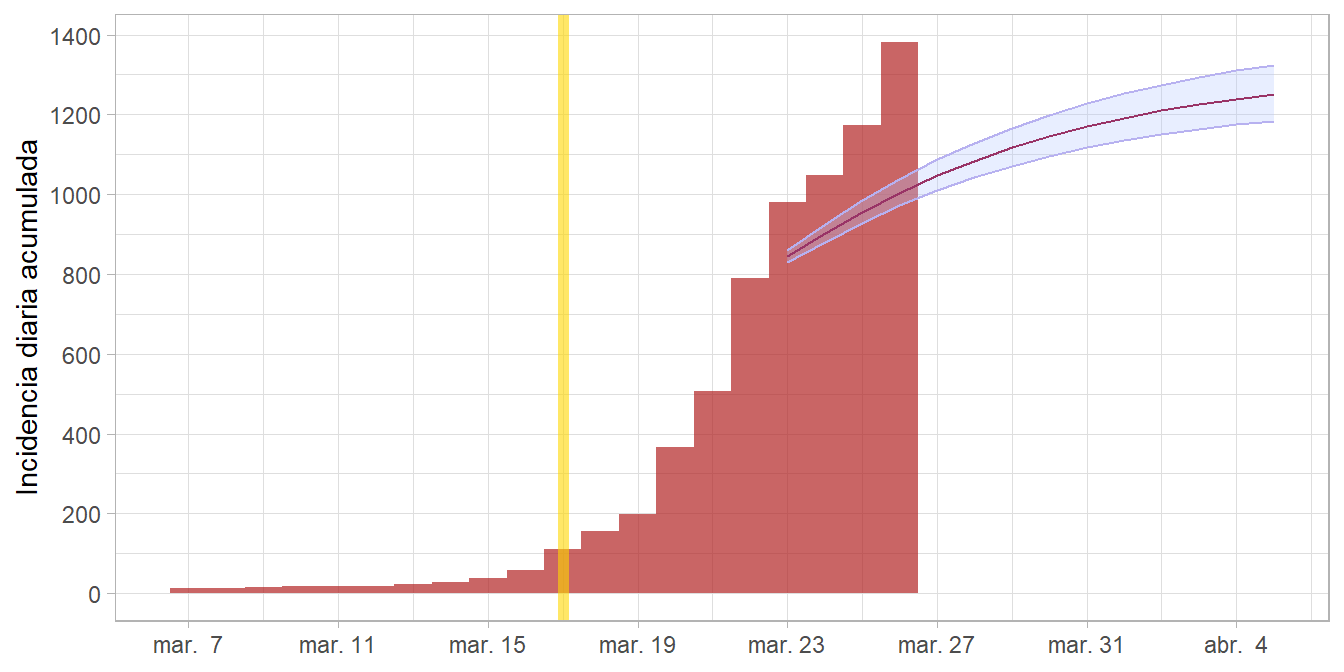
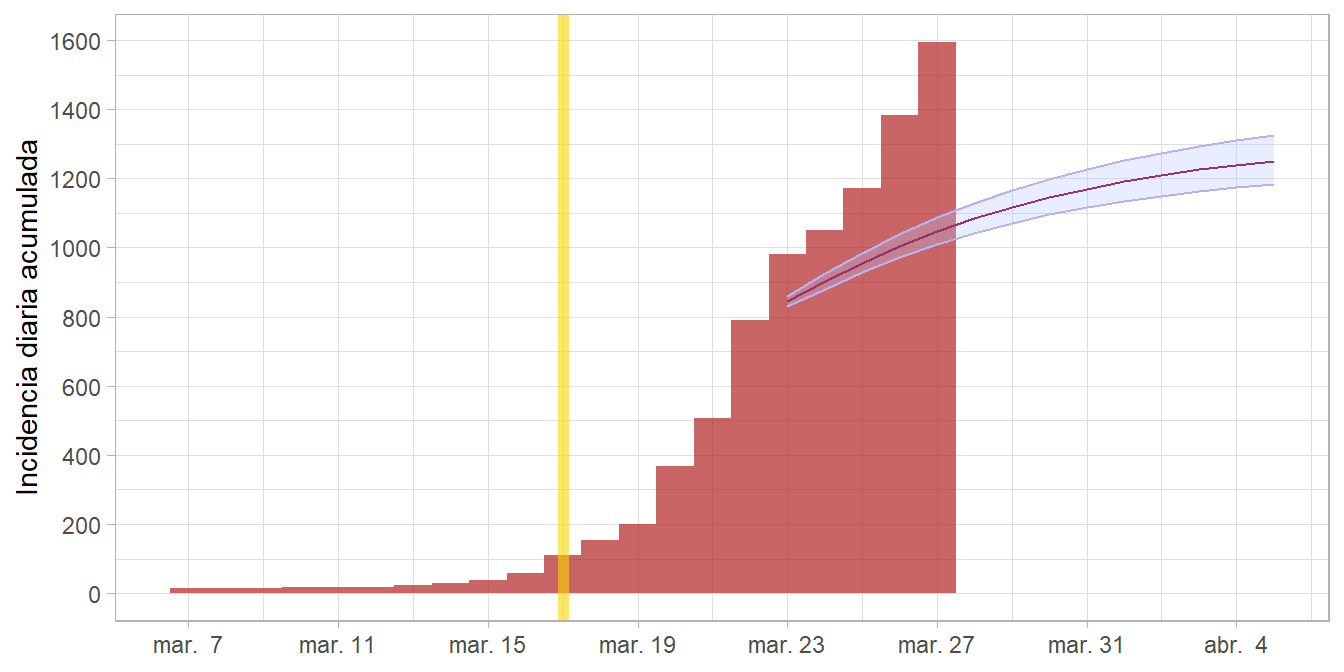
5th post corona act7

diff --git a/docs/post/2020/03/20-caracterizacion-covid-ecuador/index.html b/docs/post/2020/03/20-caracterizacion-covid-ecuador/index.html
@@ -298,7 +298,7 @@ code span.wa { color: #bf0303; } /* Warning */
 </style>
 
 
-<p><strong>Actualizado: 26 de marzo, 1 PM</strong></p>
+<p><strong>Actualizado: 27 de marzo, 11 AM</strong></p>
 <p>En vista de la emergencia en curso causada por el SARS-CoV-2 se presenta una caracterización de la epidemia en Ecuador. Se ha aplicado una metodología sugerida por el R Epidemics Consortium <a href="https://www.repidemicsconsortium.org/">RECON</a> que permite estimar tempranamente el ritmo reproductivo del virus; esta metodología requiere poseer información sobre la transmisión, y datos de la incidencia. La información requerida contempla los siguientes conceptos:</p>
 <ul>
 <li><p>El ritmo reproductivo básico (<em>Basic Reproduction Number</em>, R<sub>0</sub>) es el número esperado de casos nuevos, generados directamente por un determinado caso en una población completamente susceptible; es crucial entender que R<sub>0</sub> no es una constante biológica de un patógeno, pues es afectado por factores ambientales y conductuales.</p></li>
@@ -331,6 +331,20 @@ Personas fallecidas
 </tr>
 </thead>
 <tbody>
+<tr>
+<td style="text-align:left;">
+Riesgos_Ec
+</td>
+<td style="text-align:left;">
+27 de marzo, 10 AM
+</td>
+<td style="text-align:right;">
+1595
+</td>
+<td style="text-align:right;">
+36
+</td>
+</tr>
 <tr>
 <td style="text-align:left;">
 Riesgos_Ec
@@ -671,8 +685,8 @@ Salud_Ec
 ##          2          2          4          5          9         21         53 
 ## 2020-03-18 2020-03-19 2020-03-20 2020-03-21 2020-03-22 2020-03-23 2020-03-24 
 ##         44         44        168        139        283        192         68 
-## 2020-03-25 2020-03-26 
-##        124        209</code></pre>
+## 2020-03-25 2020-03-26 2020-03-27 
+##        124        209        213</code></pre>
 <p>A continuación es posible ajustar un modelo logarítmico para la incidencia en el tiempo utilizando el paquete <code>incidence</code>:</p>
 <div class="sourceCode" id="cb3"><pre class="sourceCode r"><code class="sourceCode r"><a class="sourceLine" id="cb3-1" title="1"><span class="kw">library</span>(incidence)</a>
 <a class="sourceLine" id="cb3-2" title="2"></a>
